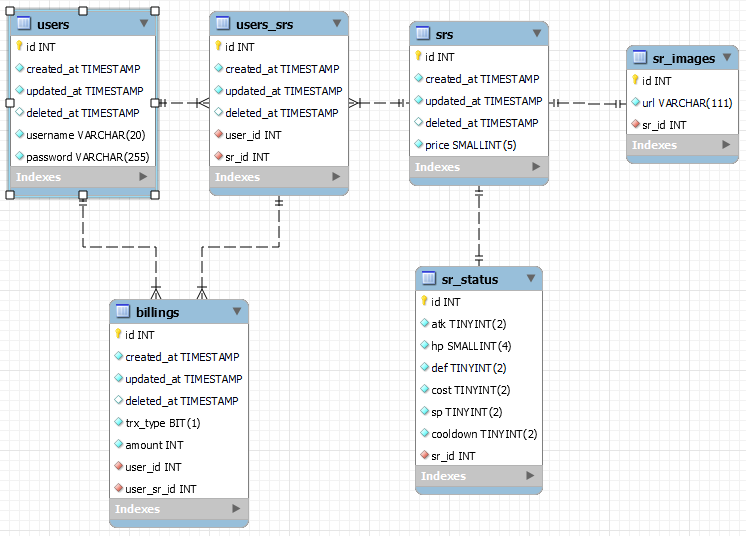
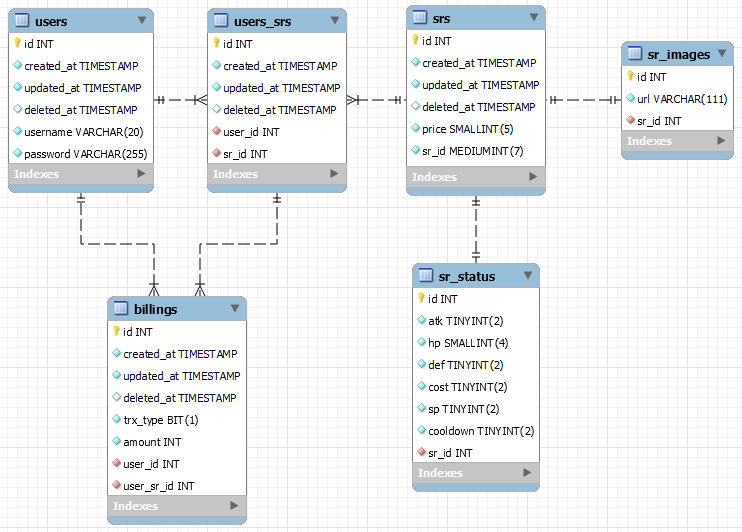
rota sr_info atualizada
sr_info agora armazena info da sr no db caso n tenha e se tiver, ela só busca no db

diff --git a/src/controllers/store/getSrInfo.js b/src/controllers/store/getSrInfo.js
@@ -1,3 +1,7 @@
+const SrStatus = require("../../models/SrStatus");
+const Sr = require("../../models/Sr");
+const SrImage = require("../../models/SrImage");
+
 // ------------------------ Função para gerar números aleatórios
 const generateRandomNumber = (min, max) => {
   return Math.floor(Math.random() * (max - min + 1)) + min;
@@ -18,7 +22,8 @@ const validaSrId = (response, id) => {
 
 const getSrInfo = async (req, res) => {
   const response = { status: "ERROR" }
-  const defaultSrUrl = "https://github.com/Nayuta-Kani/SAOIF-Skill-Records-Database/blob/master/srimages/sr_icon_l_610"
+  let tempSr = {}
+  const defaultSrUrl = "https://github.com/Nayuta-Kani/SAOIF-Skill-Records-Database/blob/master/srimages/sr_icon_l_"
 
   // console.log("sr_id .......", req.params.sr_id);
 
@@ -31,22 +36,80 @@ const getSrInfo = async (req, res) => {
   let tempUrl = ''
   tempUrl = tempUrl.concat(`${defaultSrUrl}`, req.params.sr_id, '.png?raw=true')
 
-  // -------------- cria a reposta do user com as infos do ID q ele pediu
-  response.result = {
-    id: req.params.sr_id,
-    url: tempUrl,
-    atk: generateRandomNumber(20, 70),
-    hp: generateRandomNumber(50, 3500),
-    def: generateRandomNumber(30, 80),
-    cost: generateRandomNumber(5, 45),
-    sp: generateRandomNumber(10, 50),
-    cooldown: generateRandomNumber(4, 30),
-    price: generateRandomNumber(100, 10000),
-  }
+  // ----------------- verifica se o ID que o user passou já tem uma entry no banco srs
+  const sr_status = await Sr.query().where({ sr_id: req.params.sr_id }).first()
+  if (sr_status) {
+    // ------------------- se tiver ele pega as infos
+    console.log("tem ........", sr_status);
 
-  // ------ retorna status positivo e o array caso dê td certo
-  if (response.result) {
+    // --------------- consulta o sr para pegar o id q relaciona as tabelas
+    const newSrId = await Sr.query().where({ sr_id: req.params.sr_id }).first()
+    // --------------- consulta o sr_status para pegar os status usando o id relacional
+    const newStatus = await SrStatus.query().where({ sr_id: newSrId['id'] }).first()
+
+    tempSr = {
+      id: sr_status['sr_id'],
+      url: tempUrl,
+      atk: newStatus['atk'],
+      hp: newStatus['hp'],
+      def: newStatus['def'],
+      cost: newStatus['cost'],
+      sp: newStatus['sp'],
+      cooldown: newStatus['cooldown'],
+      price: sr_status['price']
+    }
+  } else {
+    // ------------------- se não tiver, ele insere as infos
+    const newSr = await Sr.query().insert({
+      price: generateRandomNumber(100, 10000),
+      sr_id: parseInt(req.params.sr_id, 10)
+    })
+
+    const newSrId = await Sr.query().where({ sr_id: req.params.sr_id }).first()
+    const newStatus = await SrStatus.query().insert({
+      atk: generateRandomNumber(20, 70),
+      hp: generateRandomNumber(50, 3500),
+      def: generateRandomNumber(30, 80),
+      cost: generateRandomNumber(5, 45),
+      sp: generateRandomNumber(10, 50),
+      cooldown: generateRandomNumber(4, 30),
+      sr_id: newSrId['id']
+    })
+
+    const newImage = await SrImage.query().insert({
+      url: tempUrl,
+      sr_id: newSrId['id']
+    })
+
+    tempSr = {
+      id: newSr['sr_id'],
+      url: tempUrl,
+      atk: newStatus['atk'],
+      hp: newStatus['hp'],
+      def: newStatus['def'],
+      cost: newStatus['cost'],
+      sp: newStatus['sp'],
+      cooldown: newStatus['cooldown'],
+      price: newSr['price']
+    }
+
+    console.log("tempSr ..........", tempSr);
+  }
+  
+  // ------------ cria a reposta do user com as infos do ID q ele pediu e retorna as infos para ele
+  if (tempSr) {
     response.status = "OK"
+    response.result = {
+      id: tempSr['id'],
+      url: tempSr['url'],
+      atk: tempSr['atk'],
+      hp: tempSr['hp'],
+      def: tempSr['def'],
+      cost: tempSr['cost'],
+      sp: tempSr['sp'],
+      cooldown: tempSr['cooldown'],
+      price: tempSr['price'],
+    }
     return res.json(response)
   }
 

diff --git a/src/db/migrations/20210930060540_sr.js b/src/db/migrations/20210930060540_sr.js
@@ -9,6 +9,7 @@ exports.up = function (knex) {
       updatedAt(knex, table)
       table.timestamp("deleted_at")
       table.specificType("price", "smallint(5)").notNullable()
+      table.specificType("sr_id", "mediumint(7)").notNullable()
     })
     // users_srs
     .createTable("users_srs", function (table) {
